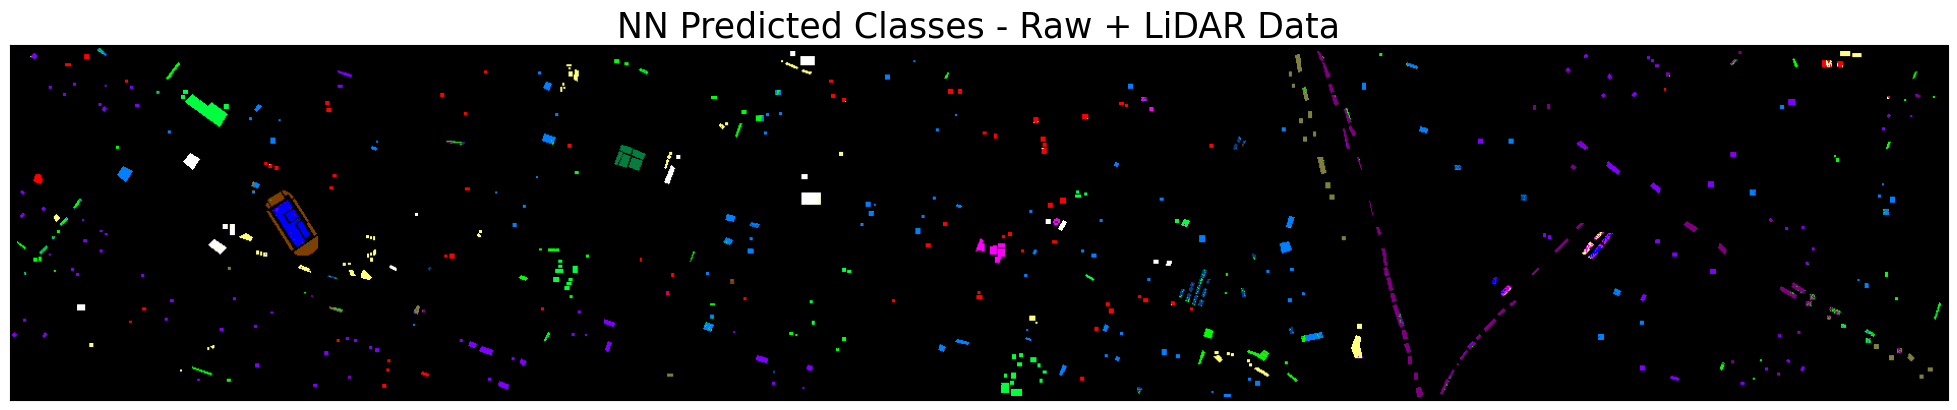
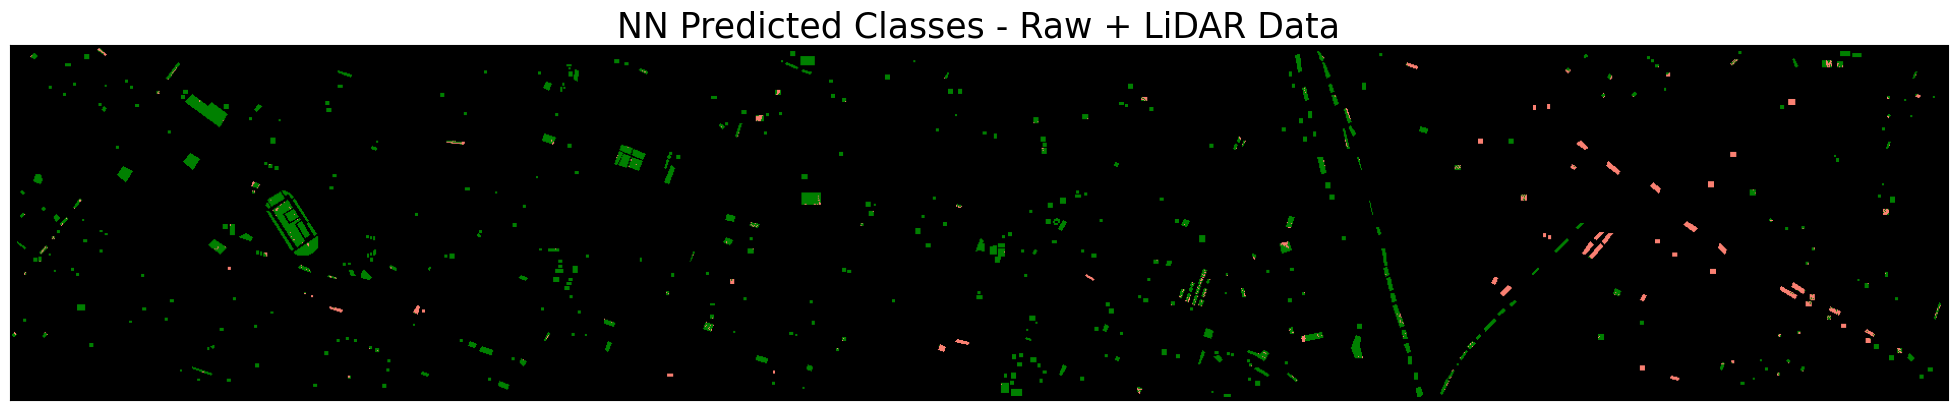
updated predicted classes' colors
-misclassified regions are clearer on output images.
-minor update to plot_image in utils.py that improves file name when saved

diff --git a/utils.py b/utils.py
@@ -64,11 +64,14 @@ def load_nn(n_images, model_path):
 #%%
 
 def plot_image(image, title, fig_size=(10, 10), cmap='gray', fs=25, vmin=None, vmax=None, save=False):
+    import re
     plt.figure(figsize=fig_size)
     plt.imshow(image, cmap=cmap, vmin=vmin, vmax=vmax)
     plt.title(title, fontsize=fs)
     plt.xticks([]), plt.yticks([])
     if save is True:
+        pattern = r'(\s?-\s?)|(\s)+'
+        title = re.sub(pattern, '-', title)
         plt.savefig(f'{title}.png', bbox_inches='tight')
     plt.show()
 

diff --git a/used_packages.py b/used_packages.py
@@ -1,6 +1,7 @@
 import numpy as np
 import pandas as pd
 import matplotlib.pyplot as plt
+import matplotlib.colors as mcolors
 from sklearn.metrics import confusion_matrix, ConfusionMatrixDisplay
 import torch
 import torch.utils.data as data
